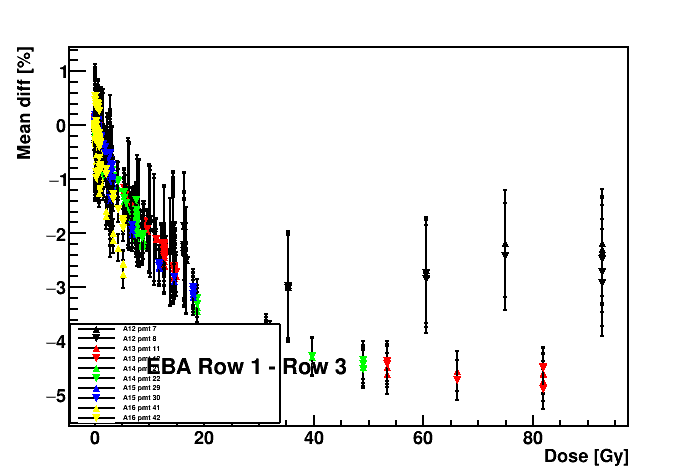
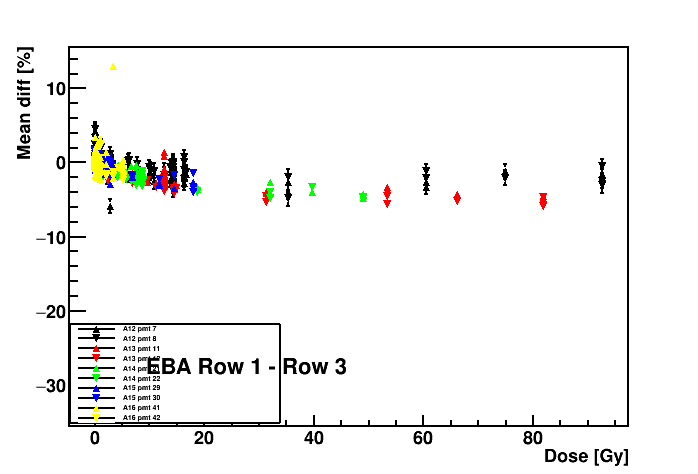
Cut the bad modules and took the means of gaus as mean of the distribution.

diff --git a/showratio.cpp b/showratio.cpp
@@ -324,17 +324,26 @@ int showratio_row(const char *partition, vector<int> & runs, int row1, int row2,
     if (h1) h1->Delete();
     hist[ip] = new TH1F(sname, stitle, 60, -30., 30.);
     for(int imod=0; imod<65; imod++){
+      if ( (ip==6 || ip==7 || ip==10 || ip==11 || ip==40 || ip==41) && 
+           ( (imod>=38 && imod<=41) || (imod>=54 && imod<=57) ) ) {
+	continue;
+      }
       if (goodR[imod][ip]) {
         hist[ip]->Fill((int_ratio[imod][ip]-1.)*100.);
       }
     }
     //cout << "FILLING the hists" << endl;
-    mean.push_back(hist[ip]->GetMean());
+    //mean.push_back(hist[ip]->GetMean());
     if (hist[ip]->GetEntries() > 0) {
       rms.push_back(hist[ip]->GetRMS());
+      hist[ip]->Fit("gaus", "", "", -20, 20);
+      TF1* ffun = hist[ip]->GetFunction("gaus");
+      double Mean = ffun->GetParameter(1);
+      mean.push_back(Mean);
       //cout << "PMT: " << ip+1 << " RMS: " << hist[ip]->GetRMS() << endl;
     } else {
       rms.push_back(-0.1);
+      mean.push_back(-0.1);
     }
    }
   
@@ -355,18 +364,16 @@ int showratio_row(const char *partition, vector<int> & runs, int row1, int row2,
     TCanvas* C = new TCanvas(sname,stitle,10,10,1000,800);
     C->Divide(4,3);
   
-    vector<int> EB_filled;
+    vector<int> filled;
  
     for(int ip=0; ip<48; ip++){
-	if(hist[ip]->GetEntries() > 0) EB_filled.push_back(ip);
+	if(hist[ip]->GetEntries() > 0) filled.push_back(ip);
     }
      
-    cout << EB_filled.size() << endl;
- 
     for (int cnt=0; cnt<10; ++cnt) {
         C->cd(cnt+1);
- 	hist[EB_filled[cnt]]->Draw();
-        hist[EB_filled[cnt]]->Fit("gaus");
+ 	hist[filled[cnt]]->Draw();
+       // hist[filled[cnt]]->Fit("gaus");
     }
     cout << "Saving Canvas with hists..." << endl;
     sname.Form("c_%s_run_%5.5d_r%d_r%d.png",partition, runs[runs.size()-1], row1+1, row2+1);
